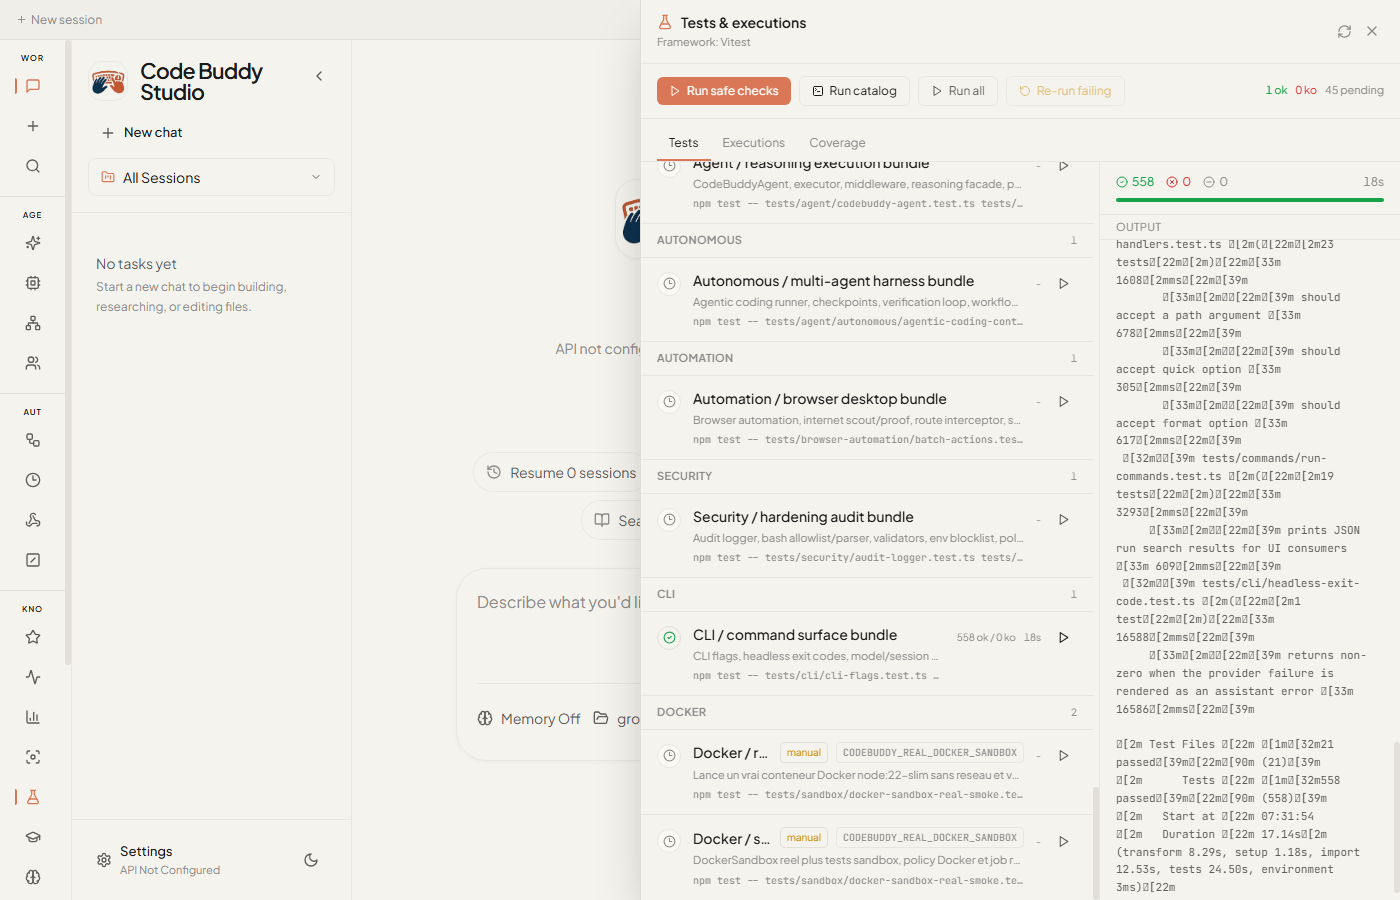
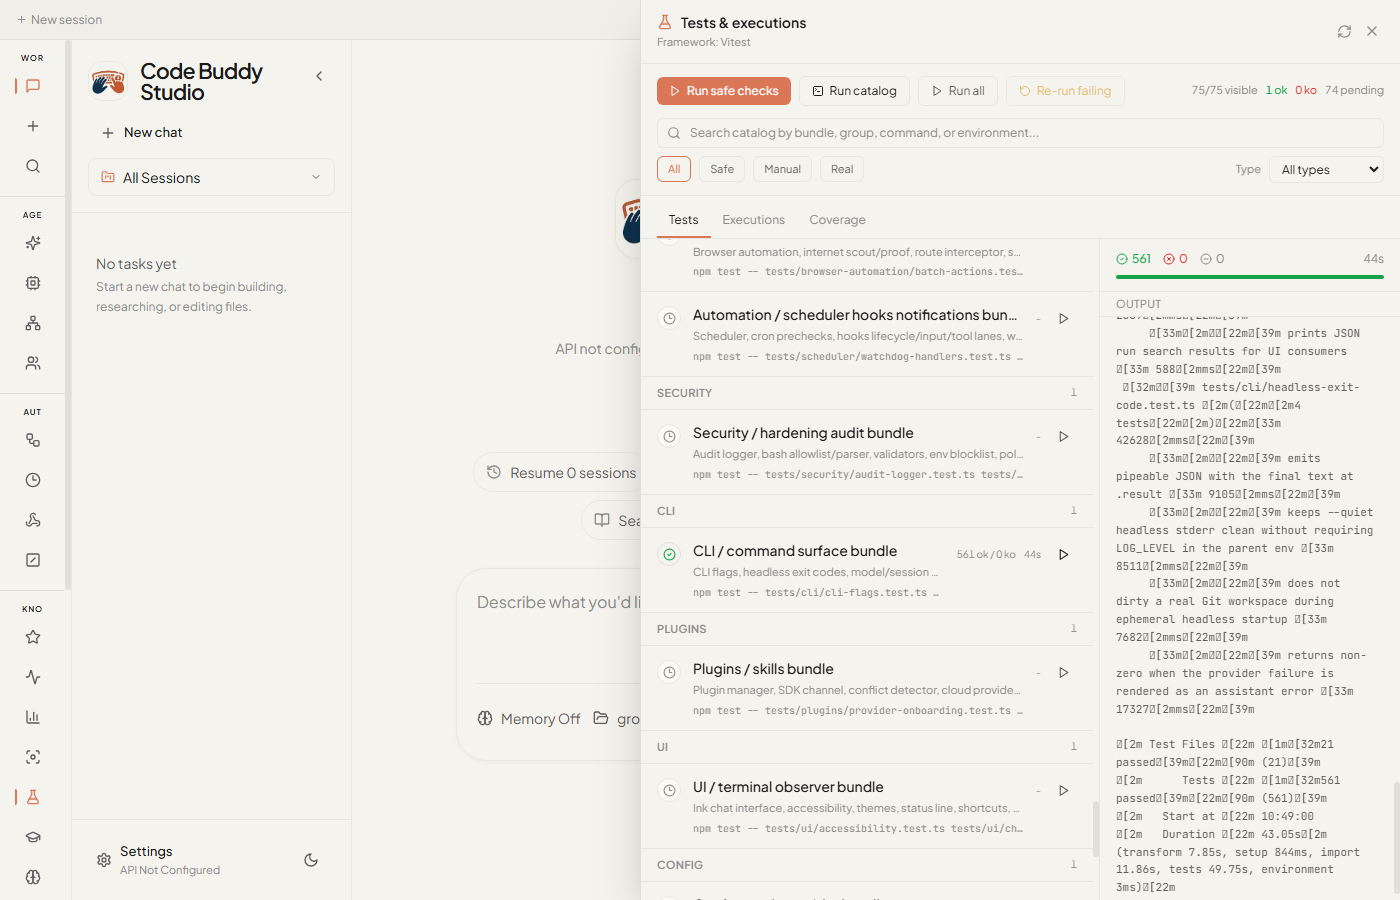
fix(test): keep headless quiet checks stable under Cowork color env
Cowork's real Test Runner launches the CLI command bundle through an Electron
process tree that can inherit FORCE_COLOR. The headless smoke intentionally sets
NO_COLOR to make stderr assertions deterministic, and Node emits a warning when
both variables are present. That warning made the UI bundle fail even though the
CLI behavior itself was correct.

The headless smoke now sanitizes FORCE_COLOR for its child CLI processes before
setting NO_COLOR. The Cowork E2E expectation and QA evidence were updated to the
current 561-test bundle result, and the screenshot was regenerated from the real
Electron run.

Constraint: Cowork Test Runner executes the same Vitest bundle from a colored parent environment.
Rejected: Relax the stderr assertion | quiet JSON must stay machine-pipeable with empty stderr on success.
Rejected: Remove NO_COLOR | ANSI output in child processes would make the smoke less deterministic.
Confidence: high
Scope-risk: narrow
Directive: Keep subprocess env sanitization in headless CLI smokes when asserting exact stderr.
Tested: FORCE_COLOR=1 npm test -- tests/cli/headless-exit-code.test.ts --run
Tested: npm test -- tests/unit/client.test.ts tests/unit/codebuddy-client.test.ts --run
[…]

diff --git a/tests/cli/headless-exit-code.test.ts b/tests/cli/headless-exit-code.test.ts
@@ -4,14 +4,20 @@ import os from 'node:os';
 import path from 'node:path';
 import { execFileSync, spawn } from 'node:child_process';
 
+function getCleanChildEnv(): Record<string, string> {
+  return Object.fromEntries(
+    Object.entries(process.env).filter((entry): entry is [string, string] =>
+      typeof entry[1] === 'string' && entry[0] !== 'FORCE_COLOR'
+    )
+  );
+}
+
 function runCliAgainstFailingProvider(port: number): Promise<{
   exitCode: number | null;
   stdout: string;
   stderr: string;
 }> {
-  const cleanEnv = Object.fromEntries(
-    Object.entries(process.env).filter((entry): entry is [string, string] => typeof entry[1] === 'string')
-  );
+  const cleanEnv = getCleanChildEnv();
 
   return new Promise((resolve, reject) => {
     const child = spawn(process.execPath, [
@@ -68,9 +74,7 @@ function runCliAgainstSuccessfulProvider(port: number, options: {
   stdout: string;
   stderr: string;
 }> {
-  const cleanEnv = Object.fromEntries(
-    Object.entries(process.env).filter((entry): entry is [string, string] => typeof entry[1] === 'string')
-  );
+  const cleanEnv = getCleanChildEnv();
 
   return new Promise((resolve, reject) => {
     const args = [

diff --git a/cowork/e2e/test-runner-cli-command-surface-bundle.spec.ts b/cowork/e2e/test-runner-cli-command-surface-bundle.spec.ts
@@ -42,7 +42,7 @@ test('runs the CLI command surface bundle from the test runner window', async ({
     { timeout: 260_000 }
   );
   await expect(appPage.getByTestId(`test-catalog-result-${bundleId}`)).toHaveText(
-    '558 ok / 0 ko',
+    '561 ok / 0 ko',
     { timeout: 260_000 }
   );
 

diff --git a/docs/qa/code-buddy-studio/feature-qa.md b/docs/qa/code-buddy-studio/feature-qa.md
@@ -65,7 +65,7 @@ Verification complementaire :
 - Bundle compagnon coeur depuis le runner : `npm test -- tests/companion-camera.test.ts tests/companion-cards.test.ts tests/companion-check-in.test.ts tests/companion-competitive-radar.test.ts tests/companion-gateway.test.ts tests/companion-improvement-cycle.test.ts tests/companion-impulses.test.ts tests/companion-mission-board.test.ts tests/companion-mission-runner.test.ts tests/companion-mode.test.ts tests/companion-percepts.test.ts tests/companion-privacy.test.ts tests/companion-safety-ledger.test.ts tests/companion-self-evaluation.test.ts tests/companion-skill-curator.test.ts --run` OK (15 fichiers, 56 tests passes), `npx playwright test e2e/test-runner-companion-core-behaviour-bundle.spec.ts --reporter=list --timeout=260000` OK. La ligne `Companion / core behaviour bundle` lance depuis l'UI camera, cards, check-in, competitive radar, gateway, improvement cycle, impulses, mission board/runner, mode, percepts, privacy, safety ledger, self-evaluation et skill curator avec `56 ok / 0 ko`. Capture `76-test-runner-companion-core-behaviour-bundle.png`.
 - Bundle automation navigateur/desktop depuis le runner : `npm test -- tests/browser-automation/batch-actions.test.ts tests/browser-automation/browser-manager-refs.test.ts tests/browser-automation/browser-operator-executor.test.ts tests/browser-automation/browser-operator-session.test.ts tests/browser-automation/browser-stagehand-actions.test.ts tests/browser-automation/internet-proof-plan.test.ts tests/browser-automation/internet-scout-plan.test.ts tests/browser-automation/internet-scout-runner.test.ts tests/browser-automation/profile-manager.test.ts tests/browser-automation/route-interceptor.test.ts tests/browser-automation/screenshot-annotator.test.ts tests/desktop-automation/automation.test.ts tests/desktop-automation/native-providers.test.ts tests/desktop-automation/smart-snapshot-ocr.test.ts tests/desktop-automation/smart-snapshot-refs.test.ts --run` OK (15 fichiers, 262 tests passes), `npx playwright test e2e/test-runner-browser-desktop-automation-bundle.spec.ts --reporter=list --timeout=320000` OK. La ligne `Automation / browser desktop bundle` lance depuis l'UI batch actions, browser manager/operator/stagehand, internet proof/scout, profils, route interceptor, screenshot annotator, desktop automation, native providers et OCR avec `262 ok / 0 ko`. Capture `77-test-runner-browser-desktop-automation-bundle.png`.
 - Bundle securite hardening/audit depuis le runner : `npm test -- tests/security/audit-logger.test.ts tests/security/bash-allowlist/allowlist-store.test.ts tests/security/bash-allowlist/pattern-matcher.test.ts tests/security/bash-parser.test.ts tests/security/code-validator.test.ts tests/security/context-engine-trust.test.ts tests/security/dangerous-patterns.test.ts tests/security/env-blocklist.test.ts tests/security/policy-engine.test.ts tests/security/security-audit.test.ts tests/security/skill-scanner.test.ts tests/security/syntax-validator.test.ts tests/security/tool-policy/policy-resolver.test.ts tests/security/tool-policy/profiles.test.ts tests/security/trust-folders.test.ts tests/unit/secrets-detector.test.ts tests/utils/path-validator.test.ts tests/security-manager.test.ts --run` OK (18 fichiers, 485 tests passes, 10 skips), `npx playwright test e2e/test-runner-security-hardening-audit-bundle.spec.ts --reporter=list --timeout=320000` OK. La ligne `Security / hardening audit bundle` lance depuis l'UI audit logger, bash allowlist/parser, validateurs, env blocklist, policy engine, security audit, skill scanner, tool policy, trust folders, secrets detector, path validator et security manager avec `485 ok / 0 ko`. Capture `78-test-runner-security-hardening-audit-bundle.png`.
-- Bundle CLI/commandes depuis le runner : `npm test -- tests/cli/cli-flags.test.ts tests/cli/headless-exit-code.test.ts tests/cli/model-listing.test.ts tests/cli/session-commands.test.ts tests/commands/core-handlers.test.ts tests/commands/slash-commands.test.ts tests/commands/context-handlers.test.ts tests/commands/session-handlers.test.ts tests/commands/permissions-handlers.test.ts tests/commands/security-handlers.test.ts tests/commands/tools-commands.test.ts tests/commands/backup-handlers.test.ts tests/commands/agents-handler.test.ts tests/commands/agent-handlers.test.ts tests/commands/run-commands.test.ts tests/commands/worktree-handlers.test.ts tests/commands/fleet-commands.test.ts tests/commands/handlers/auth-handlers.test.ts tests/unit/slash-commands.test.ts tests/unit/config-command.test.ts tests/unit/memory-commands.test.ts --run` OK (21 fichiers, 558 tests), `npx playwright test e2e/test-runner-cli-command-surface-bundle.spec.ts --reporter=list --timeout=320000` OK. La ligne `CLI / command surface bundle` lance depuis l'UI flags CLI, headless exit, model/session commands, slash handlers, auth, Fleet, tools, backup, agents et run recall avec `558 ok / 0 ko`. Capture `79-test-runner-cli-command-surface-bundle.png`.
+- Bundle CLI/commandes depuis le runner : `npm test -- tests/cli/cli-flags.test.ts tests/cli/headless-exit-code.test.ts tests/cli/model-listing.test.ts tests/cli/session-commands.test.ts tests/commands/core-handlers.test.ts tests/commands/slash-commands.test.ts tests/commands/context-handlers.test.ts tests/commands/session-handlers.test.ts tests/commands/permissions-handlers.test.ts tests/commands/security-handlers.test.ts tests/commands/tools-commands.test.ts tests/commands/backup-handlers.test.ts tests/commands/agents-handler.test.ts tests/commands/agent-handlers.test.ts tests/commands/run-commands.test.ts tests/commands/worktree-handlers.test.ts tests/commands/fleet-commands.test.ts tests/commands/handlers/auth-handlers.test.ts tests/unit/slash-commands.test.ts tests/unit/config-command.test.ts tests/unit/memory-commands.test.ts --run` OK (21 fichiers, 561 tests), `npx playwright test e2e/test-runner-cli-command-surface-bundle.spec.ts --reporter=list --timeout=320000` OK. La ligne `CLI / command surface bundle` lance depuis l'UI flags CLI, headless exit, model/session commands, slash handlers, auth, Fleet, tools, backup, agents et run recall avec `561 ok / 0 ko`. Capture `79-test-runner-cli-command-surface-bundle.png`.
 - Bundle plugins/skills depuis le runner : `npm test -- tests/plugins/provider-onboarding.test.ts tests/plugins/plugin-sdk-channel.test.ts tests/plugins/plugin-manager.test.ts tests/plugins/plugin-conflict-detector.test.ts tests/plugins/gitnexus.test.ts tests/plugins/extra-providers.test.ts tests/plugins/cloud-providers.test.ts tests/features/plugins-teams-output.test.ts tests/features/plugins-commands-summarize.test.ts tests/integration/plugin-cli.test.ts tests/unit/plugins.test.ts tests/skills/unified-registry.test.ts tests/skills/starter-packs.test.ts tests/skills/skill-registry.test.ts tests/skills/skill-prompt-integration.test.ts tests/skills/skill-manager.test.ts tests/skills/skill-loader.test.ts tests/skills/skill-layering.test.ts tests/skills/legacy-adapter.test.ts tests/skills/hub.test.ts tests/skills/eligibility.test.ts tests/skills/deprecation-warnings.test.ts tests/skills/bundled-skills.test.ts --run` OK (23 fichiers, 751 tests passes, 5 skips), `npx playwright test e2e/test-runner-plugins-skills-bundle.spec.ts --reporter=list --timeout=320000` OK. La ligne `Plugins / skills bundle` lance depuis l'UI plugin manager, SDK channel, conflict detector, cloud providers, plugin CLI, skill registry, layering, hub et eligibility avec `751 ok / 0 ko`. Capture `80-test-runner-plugins-skills-bundle.png`.
 - Bundle UI/terminal/observer depuis le runner : `npm test -- tests/ui/accessibility.test.ts tests/ui/chat-interface.test.tsx tests/ui/diff-renderer-logic.test.ts tests/ui/keyboard-shortcuts.test.ts tests/ui/metrics-dashboard.test.ts tests/ui/status-line.test.ts tests/ui/tabbed-question.test.ts tests/ui/themes.test.ts tests/ui/tool-stream-output.test.ts tests/unit/ui-components.test.ts tests/unit/clipboard.test.ts tests/unit/clipboard-manager.test.ts tests/unit/browser-commands.test.ts tests/tools/gui-tool.test.ts tests/observer/event-trigger.test.ts tests/observer/screen-observer.test.ts --run` OK (16 fichiers, 376 tests), `npx playwright test e2e/test-runner-terminal-ui-observer-bundle.spec.ts --reporter=list --timeout=320000` OK. La ligne `UI / terminal observer bundle` lance depuis l'UI l'interface Ink, accessibilite, themes, status line, raccourcis, metrics dashboard, clipboard, GUI tool et screen observer avec `376 ok / 0 ko`. Capture `81-test-runner-terminal-ui-observer-bundle.png`.
 - Bundle config/auth/provider depuis le runner : `npm test -- tests/auth/profile-manager.test.ts tests/auth/oauth/manager.test.ts tests/auth/oauth/model-profiles.test.ts tests/doctor/chatgpt-oauth-check.test.ts tests/providers/codex-oauth.test.ts tests/providers/codex-oauth-e2e.test.ts tests/codebuddy/providers/provider-openai-compat-hooks.test.ts tests/codebuddy/providers/provider-chatgpt-responses.test.ts tests/codebuddy/providers/provider-gemini-cli.test.ts tests/codebuddy/client-stream-retry.test.ts tests/codebuddy/client-gemini-vision.test.ts tests/config/resolve-model.test.ts tests/config/model-registry.test.ts tests/config/model-pricing.test.ts tests/config/model-defaults.test.ts tests/config/migration.test.ts tests/config/env-schema.test.ts tests/config/config-resolver.test.ts tests/config/agent-defaults.test.ts tests/config-validator.test.ts tests/toml-config.test.ts tests/unit/config.test.ts tests/unit/config-loader.test.ts tests/unit/config-migrator.test.ts tests/unit/config-mutator.test.ts tests/unit/jsonc-config.test.ts tests/unit/provider-command.test.ts tests/unit/provider-manager.test.ts tests/unit/providers.test.ts tests/unit/models.test.ts tests/unit/models-snapshot.test.ts --run` OK (31 fichiers, 849 tests), `npx playwright test e2e/test-runner-config-auth-provider-bundle.spec.ts --reporter=list --timeout=320000` OK. La ligne `Config / auth provider bundle` lance depuis l'UI profile manager, OAuth, doctor ChatGPT, hooks providers, model registry/pricing/defaults, TOML/JSONC config et mutators avec `849 ok / 0 ko`. Capture `82-test-runner-config-auth-provider-bundle.png`.
@@ -280,7 +280,7 @@ Preuve bundle securite hardening/audit depuis l'UI : le test E2E clique la ligne
 
 ![Fenetre Tests & executions - bundle securite hardening audit](./screenshots/78-test-runner-security-hardening-audit-bundle.png)
 
-Preuve bundle CLI/commandes depuis l'UI : le test E2E clique la ligne `CLI / command surface bundle`, qui lance les flags CLI, le code de sortie headless, model/session commands, core/slash/context/session/permission/security/tools handlers, backup, agents, run commands, worktree, Fleet, auth handlers, commandes slash/config/memoire. Le paquet traverse 21 fichiers et 558 tests, puis le panneau parent affiche `passed` et `558 ok / 0 ko`.
+Preuve bundle CLI/commandes depuis l'UI : le test E2E clique la ligne `CLI / command surface bundle`, qui lance les flags CLI, le code de sortie headless, model/session commands, core/slash/context/session/permission/security/tools handlers, backup, agents, run commands, worktree, Fleet, auth handlers, commandes slash/config/memoire. Le paquet traverse 21 fichiers et 561 tests, puis le panneau parent affiche `passed` et `561 ok / 0 ko`.
 
 ![Fenetre Tests & executions - bundle CLI commandes](./screenshots/79-test-runner-cli-command-surface-bundle.png)
 

diff --git a/docs/qa/code-buddy-studio/overnight-qa-campaign.md b/docs/qa/code-buddy-studio/overnight-qa-campaign.md
@@ -1731,10 +1731,10 @@ J'ai ajoute une ligne `CLI / command surface bundle` pour rejouer depuis `Tests 
 
 Preuves commandes :
 
-- `npm test -- tests/cli/cli-flags.test.ts tests/cli/headless-exit-code.test.ts tests/cli/model-listing.test.ts tests/cli/session-commands.test.ts tests/commands/core-handlers.test.ts tests/commands/slash-commands.test.ts tests/commands/context-handlers.test.ts tests/commands/session-handlers.test.ts tests/commands/permissions-handlers.test.ts tests/commands/security-handlers.test.ts tests/commands/tools-commands.test.ts tests/commands/backup-handlers.test.ts tests/commands/agents-handler.test.ts tests/commands/agent-handlers.test.ts tests/commands/run-commands.test.ts tests/commands/worktree-handlers.test.ts tests/commands/fleet-commands.test.ts tests/commands/handlers/auth-handlers.test.ts tests/unit/slash-commands.test.ts tests/unit/config-command.test.ts tests/unit/memory-commands.test.ts --run` -> 21 fichiers OK, 558 tests OK.
+- `npm test -- tests/cli/cli-flags.test.ts tests/cli/headless-exit-code.test.ts tests/cli/model-listing.test.ts tests/cli/session-commands.test.ts tests/commands/core-handlers.test.ts tests/commands/slash-commands.test.ts tests/commands/context-handlers.test.ts tests/commands/session-handlers.test.ts tests/commands/permissions-handlers.test.ts tests/commands/security-handlers.test.ts tests/commands/tools-commands.test.ts tests/commands/backup-handlers.test.ts tests/commands/agents-handler.test.ts tests/commands/agent-handlers.test.ts tests/commands/run-commands.test.ts tests/commands/worktree-handlers.test.ts tests/commands/fleet-commands.test.ts tests/commands/handlers/auth-handlers.test.ts tests/unit/slash-commands.test.ts tests/unit/config-command.test.ts tests/unit/memory-commands.test.ts --run` -> 21 fichiers OK, 561 tests OK.
 - `npx vitest run tests/test-runner-bridge-catalog.test.ts --reporter=verbose` -> 7 tests OK avec la ligne CLI/commandes.
 - `npm run build:e2e` -> OK.
-- `npx playwright test e2e/test-runner-cli-command-surface-bundle.spec.ts --reporter=list --timeout=320000` -> 1 test OK depuis la fenetre `Tests & executions`, avec `558 ok / 0 ko`.
+- `npx playwright test e2e/test-runner-cli-command-surface-bundle.spec.ts --reporter=list --timeout=320000` -> 1 test OK depuis la fenetre `Tests & executions`, avec `561 ok / 0 ko`.
 - `npm run typecheck` -> OK.
 
 Capture :